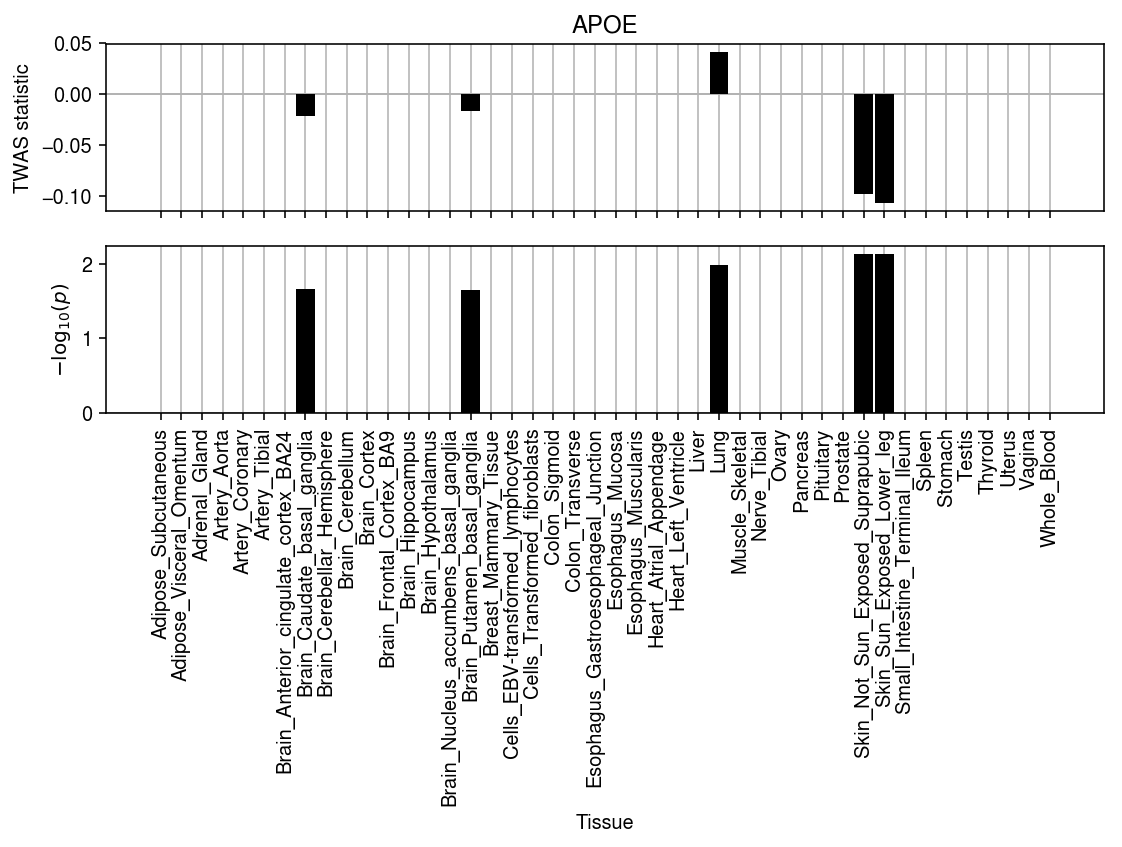
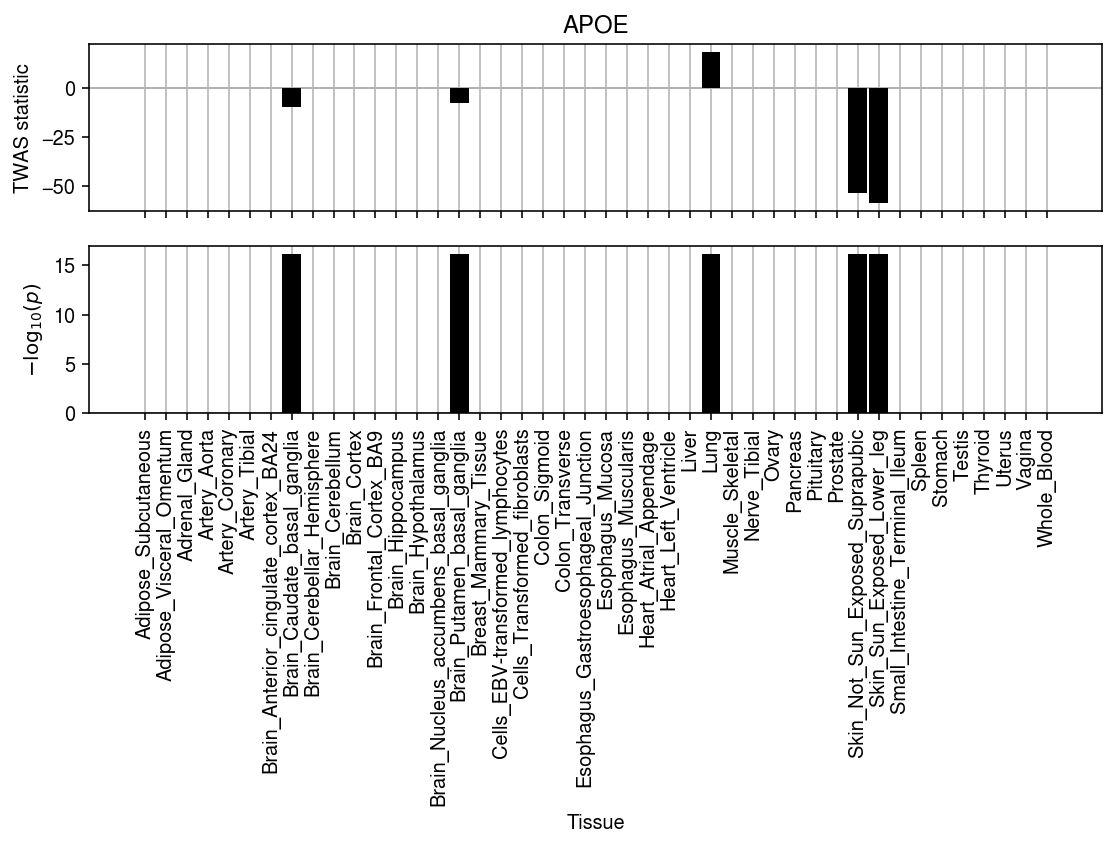
Implement adaptive permutation

diff --git a/docs/twas.html b/docs/twas.html
@@ -1,7 +1,7 @@
 <!DOCTYPE html>
 <html lang="en">
 <head>
-<!-- 2020-04-05 Sun 16:03 -->
+<!-- 2020-04-21 Tue 17:48 -->
 <meta charset="utf-8">
 <meta name="viewport" content="width=device-width, initial-scale=1">
 <title>TWAS pipeline</title>
@@ -284,9 +284,10 @@ Here, we use the fitted <code>fqtl</code> models to perform TWAS of 114 traits
 (<a href="https://doi.org/10.1038/s41467-018-03621-1">Barbeira et al 2018</a>).\(
   \DeclareMathOperator\N{N}
   \newcommand\mU{\mathbf{U}}
-  \newcommand\mc{\mathbf{V}}
   \newcommand\md{\mathbf{D}}
   \newcommand\mi{\mathbf{I}}
+  \newcommand\mr{\mathbf{R}}
+  \newcommand\mv{\mathbf{V}}
   \newcommand\mx{\mathbf{X}}
   \newcommand\vb{\mathbf{b}_t}
   \newcommand\veta{\boldsymbol{\eta}_t}
@@ -303,13 +304,17 @@ Here, we use the fitted <code>fqtl</code> models to perform TWAS of 114 traits
 <div class="org-src-container">
 <pre class="src src-ipython" id="org7be5838"><span class="org-keyword">import</span> glob
 <span class="org-keyword">import</span> itertools <span class="org-keyword">as</span> it
-<span class="org-keyword">import</span> os.path
 <span class="org-keyword">import</span> numpy <span class="org-keyword">as</span> np
+<span class="org-keyword">import</span> os.path
+<span class="org-keyword">import</span> os.path
 <span class="org-keyword">import</span> pandas <span class="org-keyword">as</span> pd
+<span class="org-keyword">import</span> pyplink
 <span class="org-keyword">import</span> scipy.linalg <span class="org-keyword">as</span> sl
 <span class="org-keyword">import</span> scipy.sparse <span class="org-keyword">as</span> ss
 <span class="org-keyword">import</span> scipy.special <span class="org-keyword">as</span> sp
 <span class="org-keyword">import</span> scipy.stats <span class="org-keyword">as</span> st
+<span class="org-keyword">import</span> sqlite3
+<span class="org-keyword">import</span> tabix
 </pre>
 </div>
 
@@ -520,8 +525,7 @@ Load the <i>cis</i>-genotypes around <i>APOE</i>.
 </p>
 
 <div class="org-src-container">
-<pre class="src src-ipython"><span class="org-keyword">import</span> pyplink
-<span class="org-keyword">with</span> pyplink.PyPlink(f<span class="org-string">'/broad/hptmp/aksarkar/geno/{gene_id}'</span>) <span class="org-keyword">as</span> f:
+<pre class="src src-ipython"><span class="org-keyword">with</span> pyplink.PyPlink(f<span class="org-string">'/broad/hptmp/aksarkar/geno/{gene_id}'</span>) <span class="org-keyword">as</span> f:
   <span class="org-variable-name">fam</span> = f.get_fam()
   <span class="org-variable-name">bim</span> = f.get_bim()
   <span class="org-variable-name">x</span> = np.ma.masked_equal(np.array([row <span class="org-keyword">for</span> _, row <span class="org-keyword">in</span> f.iter_geno()]).T, -1).astype(<span class="org-builtin">float</span>)
@@ -536,8 +540,7 @@ Read the GWAS summary statistics.
 </p>
 
 <div class="org-src-container">
-<pre class="src src-ipython"><span class="org-keyword">import</span> tabix
-<span class="org-variable-name">genes</span> = pd.read_csv(<span class="org-string">'/broad/hptmp/aksarkar/geno/manifest'</span>, sep=<span class="org-string">'\t'</span>, header=<span class="org-constant">None</span>, index_col=0)
+<pre class="src src-ipython"><span class="org-variable-name">genes</span> = pd.read_csv(<span class="org-string">'/broad/hptmp/aksarkar/geno/manifest'</span>, sep=<span class="org-string">'\t'</span>, header=<span class="org-constant">None</span>, index_col=0)
 <span class="org-variable-name">f</span> = tabix.<span class="org-builtin">open</span>(<span class="org-string">'/broad/hptmp/aksarkar/gtex-gwas-hg19/imputed_IGAP_Alzheimer.bed.gz'</span>)
 <span class="org-variable-name">row</span> = genes.loc[gene_id]
 <span class="org-variable-name">gwas_z</span> = (pd.DataFrame(f.query(f<span class="org-string">'chr{row[2]}'</span>, <span class="org-builtin">int</span>(row[3] - 1e6), <span class="org-builtin">int</span>(row[3] + 1e6)))
@@ -656,17 +659,17 @@ Plot the permutation null distribution of the TWAS statistic.
 \begin{align*}
   \vy &\sim \N(\veta a, \sigma^2 \mi), \qquad \veta = \mx\vb\\
   \hat{a} &= (\veta' \veta)^{-1} \veta' \vy\\
-  &= (\vb' \mx' \mx \vb)^{-1} \vb' \mx' \vy, \qquad \mx = \mU\md\mv', \mU'\mU = \mi, \mv'\mv = \mi\\
-  &= (\vb' \mv' \md^2 \mv \vb)^{-1} \vb' \vz
+  &= (\vb' \mx' \mx \vb)^{-1} \vb' \mx' \vy\\
+  &= \frac{\vb' \vz}{\vb' \mr \vb}, \qquad \vz = \mx' \vy / n, \mr = \mx' \mx / n
 \end{align*}
 
 <div class="org-src-container">
 <pre class="src src-ipython">np.random.seed(1)
-<span class="org-variable-name">n_perm</span> = 100000
-<span class="org-variable-name">pip_thresh</span> = 0.5
+<span class="org-variable-name">n_perm</span> = <span class="org-builtin">int</span>(1e6)
+<span class="org-variable-name">pip_thresh</span> = 0.95
 <span class="org-comment-delimiter"># </span><span class="org-comment">Hard threshold posterior mean B</span>
 <span class="org-variable-name">B_thresh</span> = np.where(pip &gt; pip_thresh, B, 0)
-<span class="org-variable-name">stat</span> = pd.Series(z @ B_thresh / (X.shape[0] * np.diag(B_thresh.T @ R @ B_thresh) + 1e-8), index=pip.columns)
+<span class="org-variable-name">stat</span> = pd.Series(z @ B_thresh / (np.diag(B_thresh.T @ R @ B_thresh) + 1e-8), index=pip.columns)
 <span class="org-variable-name">perm_stat</span> = []
 <span class="org-comment-delimiter"># </span><span class="org-comment">Permute b_t by selecting new indices</span>
 <span class="org-variable-name">n_qtls</span> = (pip &gt; pip_thresh).<span class="org-builtin">sum</span>(axis=0)
@@ -678,9 +681,7 @@ Plot the permutation null distribution of the TWAS statistic.
   <span class="org-variable-name">row</span> = np.random.choice(B.shape[0], replace=<span class="org-constant">True</span>, size=(n_qtls[t], n_perm)).ravel()
   <span class="org-variable-name">col</span> = np.repeat(np.arange(n_perm), n_qtls[t])
   <span class="org-variable-name">bt</span> = ss.coo_matrix((data, (row, col)), shape=(B.shape[0], n_perm)).tocsr()
-  <span class="org-variable-name">num</span> = (z.values.reshape(1, -1) @ bt)
-  <span class="org-variable-name">den</span> = X.shape[0] * (R.values @ bt.power(2)).<span class="org-builtin">sum</span>(axis=0, keepdims=<span class="org-constant">True</span>)
-  perm_stat.append(num / den)
+  perm_stat.append(z.values.reshape(1, -1) @ bt)
 <span class="org-variable-name">perm_stat</span> = np.vstack(perm_stat)
 <span class="org-variable-name">perm_logp</span> = -np.log10((np.square(stat.values).reshape(-1, 1) &lt;= np.square(perm_stat)).mean(axis=1) + 1e-8)
 </pre>
@@ -709,20 +710,62 @@ fig.tight_layout()
 </p>
 </div>
 
+<p>
+Implement adaptive permutation (<a href="http://www.biodatamining.org/content/7/1/9">Che et al. 2014</a>).
+</p>
+
+<div class="org-src-container">
+<pre class="src src-ipython"><span class="org-variable-name">max_success</span> = 10
+<span class="org-variable-name">block_size</span> = <span class="org-builtin">int</span>(1e3)
+<span class="org-variable-name">max_perm</span> = <span class="org-builtin">int</span>(1e7)
+<span class="org-variable-name">n</span> = X.shape[0]
+<span class="org-variable-name">pip_thresh</span> = 0.95
+<span class="org-variable-name">B_thresh</span> = pd.DataFrame(np.where(pip &gt; pip_thresh, B, 0), index=B.index, columns=B.columns)
+<span class="org-variable-name">n_qtls</span> = (pip &gt; pip_thresh).<span class="org-builtin">sum</span>(axis=0)
+<span class="org-variable-name">num_success</span> = 0
+<span class="org-variable-name">num_perm</span> = 0
+<span class="org-variable-name">pvals</span> = []
+<span class="org-keyword">for</span> t <span class="org-keyword">in</span> B:
+  <span class="org-keyword">if</span> n_qtls[t] == 0:
+    pvals.append(1)
+    <span class="org-keyword">continue</span>
+  <span class="org-variable-name">stat</span> = z @ B_thresh[t] / B_thresh[t].T @ R @ B_thresh[t]
+  <span class="org-keyword">for</span> _ <span class="org-keyword">in</span> <span class="org-builtin">range</span>(max_perm // block_size):
+    <span class="org-variable-name">perm_stat</span> = []
+    <span class="org-variable-name">data</span> = np.repeat(B_thresh[t][pip[t] &gt; pip_thresh], block_size)
+    <span class="org-variable-name">row</span> = np.random.choice(B_thresh.shape[0], replace=<span class="org-constant">True</span>, size=(n_qtls[t], block_size)).ravel()
+    <span class="org-variable-name">col</span> = np.repeat(np.arange(block_size), n_qtls[t])
+    <span class="org-variable-name">bt</span> = ss.coo_matrix((data, (row, col)), shape=(B_thresh.shape[0], block_size)).tocsr()
+    <span class="org-variable-name">num</span> = (z.values.reshape(1, -1) @ bt)
+    <span class="org-variable-name">den</span> = (R.values @ bt.power(2)).<span class="org-builtin">sum</span>(axis=0, keepdims=<span class="org-constant">True</span>)
+    perm_stat.append(num / den)
+    <span class="org-variable-name">perm_stat</span> = np.vstack(perm_stat)
+
+    <span class="org-variable-name">num_success</span> += (np.square(perm_stat) &gt;= np.square(stat)).<span class="org-builtin">sum</span>()
+    <span class="org-variable-name">num_perm</span> += block_size
+    <span class="org-keyword">if</span> num_success &gt;= max_success:
+      pvals.append(num_success / num_perm)
+      <span class="org-keyword">break</span>
+  <span class="org-keyword">else</span>:
+    pvals.append((num_success + 1) / (max_perm + 1))
+<span class="org-variable-name">pvals</span> = np.array(pvals)
+</pre>
+</div>
+
 <div class="org-src-container">
 <pre class="src src-ipython">plt.clf()
 <span class="org-variable-name">fig</span>, <span class="org-variable-name">ax</span> = plt.subplots(2, 1, sharex=<span class="org-constant">True</span>)
 fig.set_size_inches(8, 6)
-<span class="org-variable-name">grid</span> = np.arange(stat.shape[0])
-ax[0].bar(grid, stat, width=.9, color=<span class="org-string">'k'</span>, zorder=3)
+<span class="org-variable-name">grid</span> = np.arange(B.shape[1])
+ax[0].bar(grid, z @ B_thresh / (np.diag(B_thresh.T @ R @ B_thresh) + 1e-8), width=.9, color=<span class="org-string">'k'</span>, zorder=3)
 ax[0].set_ylabel(<span class="org-string">'TWAS statistic'</span>)
-ax[1].bar(grid, perm_logp, width=.9, color=<span class="org-string">'k'</span>, zorder=3)
+ax[1].bar(grid, -np.log(pvals), width=.9, color=<span class="org-string">'k'</span>, zorder=3)
 <span class="org-keyword">for</span> a <span class="org-keyword">in</span> ax:
   a.set_xticks(grid)
   a.axhline(y=0, lw=1, color=<span class="org-string">'0.7'</span>)
   a.grid(axis=<span class="org-string">'x'</span>, color=<span class="org-string">'0.7'</span>)
 ax[0].set_title(<span class="org-string">'APOE'</span>)
-ax[1].set_xticklabels(stat.index, rotation=90)
+ax[1].set_xticklabels(B.columns, rotation=90)
 ax[1].set_xlabel(<span class="org-string">'Tissue'</span>)
 ax[1].set_ylabel(r<span class="org-string">'$-\log_{10}(p)$'</span>)
 fig.tight_layout()
@@ -790,7 +833,7 @@ Run the entire pipeline.
 </div>
 <div id="postamble" class="status">
 <p class="author">Author: Abhishek Sarkar</p>
-<p class="date">Created: 2020-04-05 Sun 16:03</p>
+<p class="date">Created: 2020-04-21 Tue 17:48</p>
 <p class="validation"><a href="http://validator.w3.org/check?uri=referer">Validate</a></p>
 </div>
 </body>

diff --git a/twas.py b/twas.py
@@ -1,38 +1,134 @@
+r"""TWAS using fqtl models
+
+The major differences between the implementation here and existing
+implementations in S-PREDIXCAN (Barbeira et al. 2018) and FUSION (Gusev et
+al. 2016, Mancuso et al. 2017) are:
+
+1. We estimate the TWAS statistic based on the following argument for tissue t:
+
+   y \sim N(eta a, sigma^2 I),    eta = X b
+   \hat{a} = (eta' eta)^{-1} eta' y
+           = (b' X' X b)^{-1} b' X' y
+           = (b' R b)^{-1} b' z,    R = X' X / n, z = X' y / n
+
+2. We hard-threshold tissue effect sizes based on PIP, in order to avoid
+   correlating small posterior mean effect sizes with positive GWAS signals.
+
+2. We use adaptive permutations (Che et al. 2014) to estimate p-values, rather
+   than making a Normal assumption under the null.
+
+"""
 import numpy as np
 import pandas as pd
 import tabix
 import pyplink
+import scipy.sparse as ss
 import scipy.special as sp
 import scipy.stats as st
 import sys
 
 _sf = st.norm().sf
 
-def twas(twas_data, B, X):
+def align(twas_data, X, B, pip):
+  """Align the TWAS data
+
+  Return:
+
+  z - GWAS z-scores (p,)  [Important: this needs to be broadcastable]
+  B - fqtl effect size matrix (p, m)
+  pip - fqtl posterior inclusion probabilities (p, m)
+
+  """
+  # Align the TWAS data, genotypes, and fqtl effect size matrix
   B = B.loc[twas_data['3_y']]
-  # Hack: chr12 has a dupe "12_48000000_T_C_b37: 2 times"
+  # Hack: chr12 has a dupe in fqtl fitted models "12_48000000_T_C_b37: 2 times"
   B = B.loc[~B.index.duplicated(keep='first')]
+  pip = pip.loc[twas_data['3_y']]
+  pip = pip.loc[~pip.index.duplicated(keep='first')]
   z = twas_data['5_x']
   z = z.loc[~z.index.duplicated(keep='first')]
   X_ = X.loc[:,~X.columns.duplicated(keep='first')]
   X_ = X_.loc[:,twas_data['3_y']]
   X_ = X_.loc[:,~X_.columns.duplicated(keep='first')]
   R = est_gwas_cov(X_)
-  return z.dot(B) / np.sqrt(np.diag(B.T.dot(R).dot(B)))
+  return z, R, B, pip
+
+def adaptive_permutation(z, R, B, pip, pip_thresh=0.95, max_success=10, batch_size=1000, max_perm=10_000_000):
+  """Return TWAS approximate permutation p-values
+
+  Return:
+
+  pvals - p-values (m, 1)
+
+  """
+  B = B[pip > pip_thresh].fillna(0)
+  n_qtls = (pip > pip_thresh).sum(axis=0)
+  num_success = 0
+  num_perm = 0
+  stats = []
+  pvals = []
+  for t in B:
+    if n_qtls[t] == 0:
+      stats.append(float(0))
+      pvals.append(float(1))
+      continue
+    stat = (z @ B[t]) / (B[t].T @ R @ B[t])
+    stats.append(stat)
+    # Generate permuted TWAS statistics in batches by using sparse matrices to
+    # represent a batch of permuted non-zero effects
+    for _ in range(max_perm // batch_size):
+      perm_stat = []
+      data = np.repeat(B[t][pip[t] > pip_thresh], batch_size)
+      row = np.random.choice(B.shape[0], replace=True, size=(n_qtls[t], batch_size)).ravel()
+      col = np.repeat(np.arange(batch_size), n_qtls[t])
+      bt = ss.coo_matrix((data, (row, col)), shape=(B.shape[0], batch_size)).tocsr()
+      num = (z.values.reshape(1, -1) @ bt)
+      den = (R.values @ bt.power(2)).sum(axis=0, keepdims=True)
+      perm_stat.append(num / den)
+      perm_stat = np.vstack(perm_stat)
+
+      num_success += (np.square(perm_stat) >= np.square(stat)).sum()
+      num_perm += batch_size
+      if num_success >= max_success:
+        pvals.append(num_success / num_perm)
+        break
+    else:
+      pvals.append((num_success + 1) / (max_perm + 1))
+  # Important: after filtering low PIP factors/loadings, B is not guaranteed to
+  # have all 44 tissues
+  stats = pd.Series(stats, index=B.columns)
+  pvals = pd.Series(pvals, index=B.columns)
+  return stats, pvals
 
 def load_fqtl_model(prefix, pip_thresh=0.95):
+  """Return fqtl metadata, effect sizes, and PIPs
+
+  Return:
+
+  snp_annot - DataFrame (chromosome, ID, dummy, position, ref, alt)
+  B - fqtl effect sizes (p, m)
+  pip - fqtl posterior inclusion probabilities (p, m)
+
+  """
   snp_annot = pd.read_csv(f'{prefix}/fqtl.snp.info.gz', sep='\t', header=None)
-  tis_annot = pd.read_csv(f'{prefix}/fqtl.tis.info.gz', sep='\t', header=None)
   snp_lodds = pd.read_csv(f'{prefix}/fqtl.snp.lodds.txt.gz', sep='\t', header=None)
+  snp_lodds.index = snp_annot[3]
+  tis_annot = pd.read_csv(f'{prefix}/fqtl.tis.info.gz', sep='\t', header=None)
+  tis_lodds = pd.read_csv(f'{prefix}/fqtl.tis.lodds.txt.gz', sep='\t', header=None)
+  tis_lodds.index = tis_annot[1].apply(lambda x: x.rsplit('_', maxsplit=1)[0])
   keep = (sp.expit(snp_lodds) > pip_thresh).any(axis=0)
   L = pd.read_csv(f'{prefix}/fqtl.snp.theta.txt.gz', sep='\t', header=None)
   L.index = snp_annot[3]
   F = pd.read_csv(f'{prefix}/fqtl.tis.theta.txt.gz', sep='\t', header=None)
   F.index = tis_annot[1].apply(lambda x: x[:-9])
   B = L.loc[:,keep].dot(F.loc[:,keep].T)
-  return snp_annot, B
+  pip = pd.DataFrame(sp.expit(snp_lodds.loc[:,keep]) @ sp.expit(tis_lodds.loc[:,keep]).T,
+                     index=B.index, columns=B.columns)
+  assert np.isfinite(pip.values).all()
+  return snp_annot, B, pip
 
 def load_geno(prefix):
+  """Return DataFrame containing genotypes"""
   with pyplink.PyPlink(prefix) as f:
     fam = f.get_fam()
     bim = f.get_bim()
@@ -50,14 +146,14 @@ def est_gwas_cov(x, sv_thresh=1e-4):
 if __name__ == '__main__':
   f = tabix.open(sys.argv[1])
   genes = pd.read_csv(sys.argv[2], sep='\t', header=None, index_col=0)
-  result = dict()
+  stats = dict()
+  pvals = dict()
   for k, row in genes.iterrows():
     try:
-      snp_annot, B = load_fqtl_model(f'/broad/compbio/ypp/gtex/analysis/fqtl-gtex/result/fqtl-std/{k}/50/')
+      snp_annot, B, pip = load_fqtl_model(f'/broad/compbio/ypp/gtex/analysis/fqtl-gtex/result/fqtl-std/{k}/50/')
     except FileNotFoundError:
       print(f'warning: skipping empty model ({k}: {row[1]})')
       continue
-    X = load_geno(f'/broad/hptmp/aksarkar/geno/{k}')
     try:
       gwas_z = (pd.DataFrame(f.query(f'chr{row[2]}', int(row[3] - 1e6), int(row[3] + 1e6)))
                 .astype(dict(enumerate([str, int, int, str, str, float, float]))))
@@ -77,6 +173,10 @@ if __name__ == '__main__':
       print(f'warning: many SNPs lost ({k}: {row[1]})')
     else:
       print(f'estimating sTWAS statistics ({k}: {row[1]})')
-    result[row[1]] = twas(twas_data, B, X)
-  result = pd.DataFrame.from_dict(result, orient='index')
-  result.to_csv(sys.argv[3], sep='\t', compression='gzip')
+    X = load_geno(f'/broad/hptmp/aksarkar/geno/{k}')
+    z, R, B, pip = align(twas_data, X, B, pip)
+    stat, pval = adaptive_permutation(z, R, B, pip)
+    stats[row[1]] = stat
+    pvals[row[1]] = pval
+  pd.DataFrame.from_dict(stats, orient='index').to_csv(f'{sys.argv[3]}.stat.txt.gz', sep='\t', compression='gzip')
+  pd.DataFrame.from_dict(pvals, orient='index').to_csv(f'{sys.argv[3]}.pval.txt.gz', sep='\t', compression='gzip')
